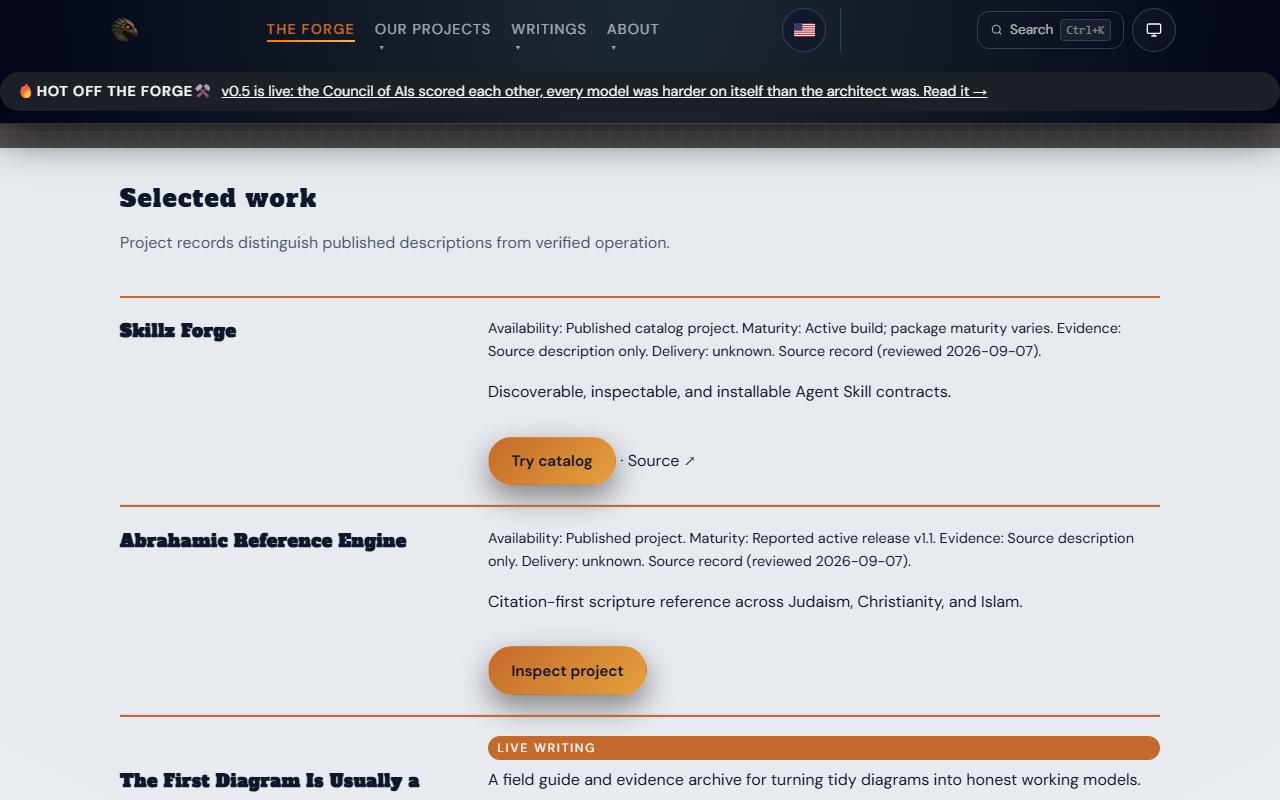
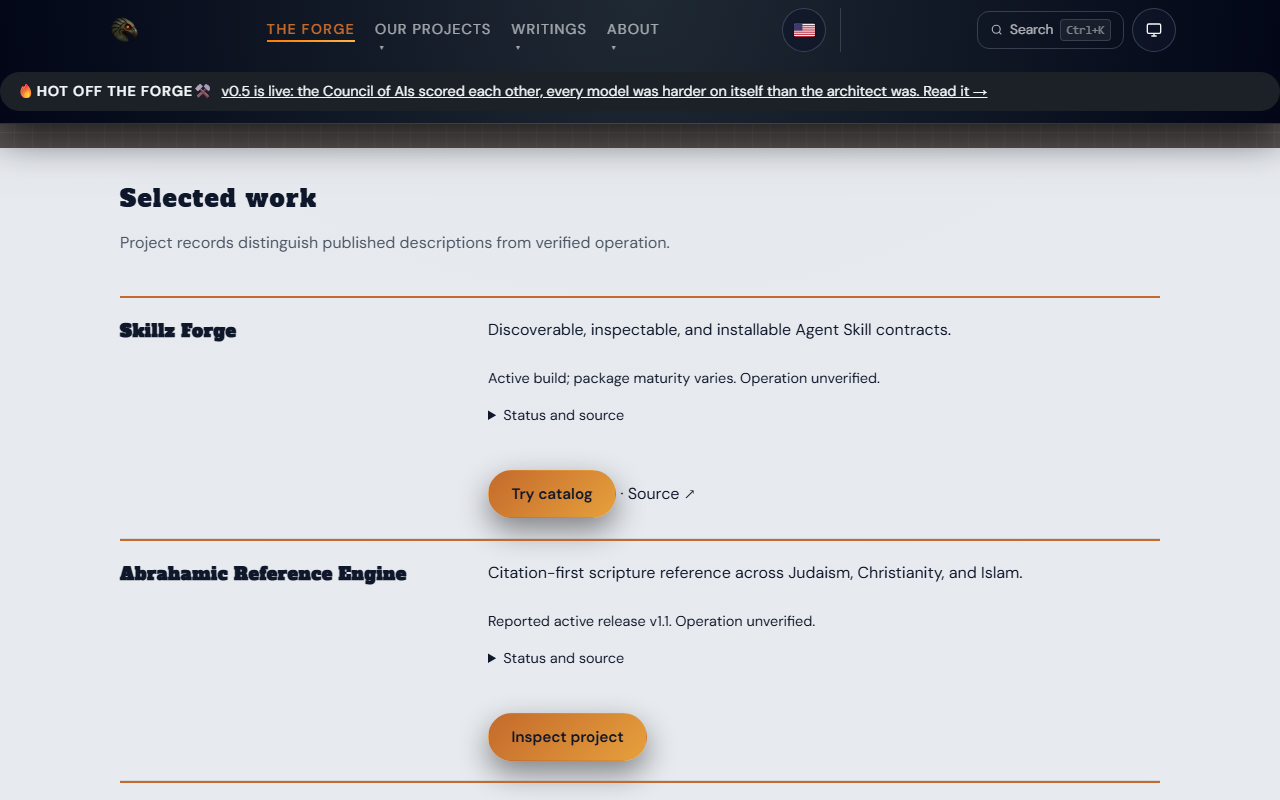
docs(a14): simplify visible status with shared disclosures

Changed region(s): [[0.375, 0.4062, 0.9062, 1.0], [0.0938, 0.6562, 0.3438, 0.75], [0.0938, 0.9688, 0.3438, 1.0]]

diff --git a/scripts/build-phone-proposals.py b/scripts/build-phone-proposals.py
@@ -13,7 +13,7 @@ from bs4 import BeautifulSoup
 
 ROOT = Path(__file__).resolve().parents[1]
 OUT = ROOT / ".local/a14"
-A11 = '9bfe170badf3133fab8119643aafeb1f04d2d0c9'
+A11 = '73019eadafe25e1d763e6ef6dd223a5b67942202'
 ROUTES = ("index.html", "projects/index.html", "projects/skillz/index.html", "contact/index.html")
 CONTACT = '''<h3>What are you trying to untangle?</h3>
 <p>A few details can help start the conversation. Share whatever is useful:</p>
@@ -38,6 +38,12 @@ CSS = """
 .proposal .project-card h3 {font-size:1.2rem;}
 .proposal .project-card {border-top:2px solid var(--okh-orange);}
 .proposal [data-project-status] {font-size:.9rem;line-height:1.6;}
+.proposal-status {margin:.6rem 0 1rem;}
+.proposal-status-brief {font-size:.9rem;line-height:1.5;margin:0;}
+.proposal-status details {margin:.25rem 0 0;}
+.proposal-status summary {display:list-item;cursor:pointer;min-height:44px;padding:.65rem 0;font-size:.9rem;}
+.proposal-status summary:focus-visible {outline:2px solid currentColor;outline-offset:3px;}
+.proposal-a .proposal-status {grid-column:2;}
 .proposal .project-card .btn-primary {white-space:normal;max-width:100%;}
 .proposal-a .grid-3:has(>.project-card) {grid-template-columns:1fr;gap:0;}
 .proposal-a .project-card {border-radius:0;border-left:0;border-right:0;padding:1.2rem 0;background:transparent;box-shadow:none;}
@@ -75,11 +81,21 @@ def homepage(text, variant):
     return text.replace(main, compact + selected + rest + context, 1)
 
 
+def present_status(soup, records):
+    """Style A11's optional disclosure without rewriting its text or structure."""
+    by_id = {record['id']: record for record in records}
+    for wrapper in soup.select('[data-project-status-disclosure]'):
+        record = by_id[wrapper['data-project-status-disclosure']]
+        wrapper['class'] = ['proposal-status']
+        wrapper.select_one('[data-project-status-brief]')['class'] = ['proposal-status-brief']
+        wrapper.summary['aria-label'] = 'Status and source for ' + record['title']
+
+
 def build():
     OUT.mkdir(parents=True, exist_ok=True)
     # Read the verified contract into this checkout's ignored preview area only.
     contract_root = OUT / 'contract-source'
-    archive = subprocess.check_output(['git', 'archive', A11, 'site-src', 'scripts/project-status.py'], cwd=ROOT)
+    archive = subprocess.check_output(['git', 'archive', A11, 'site-src', 'scripts/project-status.py', 'tests/test-project-status-disclosure.py'], cwd=ROOT)
     with tarfile.open(fileobj=io.BytesIO(archive)) as bundle:
         for member in bundle.getmembers():
             if member.isdir():
@@ -93,7 +109,7 @@ def build():
     contract = importlib.util.module_from_spec(spec)
     spec.loader.exec_module(contract)
     records = contract.load_registry(contract_root)
-    (OUT / 'contract-summaries.json').write_text(json.dumps({r['id']: {'text': contract.summary(r), 'url': r['evidence']['url']} for r in records}, indent=2), encoding='utf-8')
+    (OUT / 'contract-summaries.json').write_text(json.dumps({r['id']: {'text': contract.summary(r), 'url': r['evidence']['url'], 'brief': contract.visitor_summary(r)} for r in records}, indent=2), encoding='utf-8')
     (OUT / 'proposal.css').write_text(CSS, encoding='utf-8')
     source_hashes = {}
     for variant in ('a', 'b'):
@@ -103,7 +119,7 @@ def build():
             text = raw.decode('utf-8')
             source_path = contract_root / 'site-src/pages' / route.replace('.html', '.main.html')
             main = source_path.read_text(encoding='utf-8')
-            main = contract.render(main, '/' + route.removesuffix('index.html'), records)
+            main = contract.render(main, '/' + route.removesuffix('index.html'), records, disclosure=True)
             text = re.sub(r'(<main\b[^>]*>).*?(</main>)', lambda m: m[1] + main + m[2], text, count=1, flags=re.S)
             if route == 'index.html':
                 text = homepage(text, variant)
@@ -130,6 +146,7 @@ def build():
                                       'Read essay' if href.startswith('/writings/') else
                                       'Discuss access' if href.startswith('mailto:') else
                                       'Browse resources' if href == '/prompt-forge/' else 'Visit site')
+            present_status(soup, records)
             text = str(soup)
             text = re.sub(r'<body([^>]*)>', rf'<body\1 data-proposal="{variant}">', text, count=1)
             # Existing brand scope is unchanged; proposal styling is scoped via main.

diff --git a/assets/docs/a14-phone-proposals-2026-09-07.md b/assets/docs/a14-phone-proposals-2026-09-07.md
@@ -4,16 +4,36 @@ Status: RENDERED PROPOSALS READY FOR OWNER REVIEW. X04/X08 remain open until
 selection and implementation acceptance. Neither direction is approved for
 production. This revision supersedes the preliminary layout checkpoint.
 
+Architect refinement: concise visitor status with expandable provenance. This
+updates both existing alternatives; it neither chooses A/B nor issues another
+selection prompt. A11 reviewed the proposal-only contract in the task handoff.
+
 Baseline: `98922aebf71d90b2b18ecc34c8b00a041fff51c7`. A01/A02 are committed
 in this baseline. The old audit description of uncommitted work is historical.
 
-Verified A11 source contract: `9bfe170badf3133fab8119643aafeb1f04d2d0c9`,
+Verified A11 source contract: `73019eadafe25e1d763e6ef6dd223a5b67942202`,
+the optional disclosure followup to `9bfe170badf3133fab8119643aafeb1f04d2d0c9`,
 including its A06 source corrections. The builder reads that exact commit's
 source fragments, registry and renderer into its own ignored preview directory.
 It validates the 18-record registry and renders canonical summaries without
-copying handwritten facts. Every summary retains source description scope,
-review date, immutable evidence link and `Delivery: unknown`. One primary
+copying handwritten facts. It calls `render(..., disclosure=True)` and uses
+`visitor_summary(record)` for verification. A14 adds only scoped classes and a
+project-specific accessible summary name; it maintains no parallel wording
+function. Every full summary retains source description scope,
+review date, immutable evidence link and `Delivery: unknown` inside native
+`details`, opened with "Status and source". One primary
 action per project card is styled separately from supporting source links.
+
+The visible line preserves `record.maturity` verbatim and adds "Operation
+unverified" for software or "Delivery unverified" for other records. Unknown
+shelf entries also retain the external-link or access-inquiry context. The
+workbench retains its dated readiness and exact benchmark/RAG evidence summary
+outside the disclosure because that limitation is material; the shared helper
+does not add a redundant generic delivery phrase to that record. No independent
+status table, shortened prototype qualification or stronger delivery claim was
+introduced. On cards, the visitor description precedes the concise status.
+The canonical node, source URL and review date are unchanged, available without
+JavaScript, and excluded from the primary-action styling.
 
 ## Two directions
 
@@ -52,6 +72,7 @@ work has a separate scrolled capture. Chromium 151.0.7922.34, reduced motion,
 | --- | --- | --- | --- | --- |
 | Homepage | [View](../audit/screenshots/a14-phone-proposals/a-home-390.png) | [View](../audit/screenshots/a14-phone-proposals/a-home-1280.png) | [View](../audit/screenshots/a14-phone-proposals/b-home-390.png) | [View](../audit/screenshots/a14-phone-proposals/b-home-1280.png) |
 | Selected work | [View](../audit/screenshots/a14-phone-proposals/a-selected-390.png) | [View](../audit/screenshots/a14-phone-proposals/a-selected-1280.png) | [View](../audit/screenshots/a14-phone-proposals/b-selected-390.png) | [View](../audit/screenshots/a14-phone-proposals/b-selected-1280.png) |
+| Expanded source | [View](../audit/screenshots/a14-phone-proposals/a-status-open-390.png) | Phone detail | [View](../audit/screenshots/a14-phone-proposals/b-status-open-390.png) | Phone detail |
 | Project shelf | [View](../audit/screenshots/a14-phone-proposals/a-projects-390.png) | [View](../audit/screenshots/a14-phone-proposals/a-projects-1280.png) | [View](../audit/screenshots/a14-phone-proposals/b-projects-390.png) | [View](../audit/screenshots/a14-phone-proposals/b-projects-1280.png) |
 | Skillz detail | [View](../audit/screenshots/a14-phone-proposals/a-projects-skillz-390.png) | [View](../audit/screenshots/a14-phone-proposals/a-projects-skillz-1280.png) | [View](../audit/screenshots/a14-phone-proposals/b-projects-skillz-390.png) | [View](../audit/screenshots/a14-phone-proposals/b-projects-skillz-1280.png) |
 | Contact | [View](../audit/screenshots/a14-phone-proposals/a-contact-390.png) | [View](../audit/screenshots/a14-phone-proposals/a-contact-1280.png) | [View](../audit/screenshots/a14-phone-proposals/b-contact-390.png) | [View](../audit/screenshots/a14-phone-proposals/b-contact-1280.png) |
@@ -97,6 +118,16 @@ supports earlier access, not a claim about conversions or task success.
   action on every project card. An initial test expected 15 shelf records;
   that incorrect test assumption was corrected to derive the count from the
   registry, which declares 14. No product change was made to satisfy that count.
+- PASS: each concise status is visible with its disclosure closed; keyboard
+  Enter opens and closes every disclosure in the standard matrix, exposing the
+  canonical text and leaving focus on its summary. No primary action is inside
+  a disclosure. Supplemental checks also open/close the first disclosure on
+  applicable pages with JavaScript disabled. These are scoped control checks,
+  not a full keyboard journey or assistive-technology acceptance session.
+- PASS: the five focused tests shipped with A11's pinned disclosure contract,
+  executed in the ignored contract snapshot. They cover exact canonical content,
+  visible material limits, record-driven wording, opt-in/idempotent rendering,
+  and visitor description/action placement. Production default stays unchanged.
 - PASS: eight additional phone samples with dark mode and JavaScript enabled,
   plus eight with JavaScript disabled and a requested dark system preference;
   no overflow or hidden reveal content. Disabled-script samples retain the
@@ -146,6 +177,10 @@ preview tree for each run and does not delete prior trees or alter other servers
 1. A11 status/action dependency is now satisfied for these proposals. Its source
    contract is not external functional proof; delivery remains unknown. The
    selected writing card is editorial content, not a software registry record.
+   A11's current production browser fixture expects the full canonical block
+   visible. Any eventual disclosure adoption must coordinate that fixture change
+   with A11, asserting visible concise limits plus keyboard-accessible full
+   evidence. A14 does not waive that production assertion or modify its fixture.
 2. A21 must refresh the chosen proposal against its combined source and shell
    metadata before implementation. Preserve A16's future picture/source
    optimization when updating the pinned source; A14 does not add that asset.

diff --git a/assets/docs/a14-owner-choice-2026-09-07.md b/assets/docs/a14-owner-choice-2026-09-07.md
@@ -6,6 +6,12 @@ A11's source-described project maturity and explicit unknown delivery, with one
 primary action per project card. A12 Featured wording and A15 optional Contact
 prompts are included.
 
+The architect's refinement is applied to both alternatives: visitor descriptions
+come first, followed by a concise maturity/uncertainty line. "Status and source"
+opens the full dated registry record. Prototype and uncertain-operation limits
+remain visible; provenance has not been deleted or rewritten. This is a
+refinement of the existing pending comparison, not a new selection request.
+
 **Recommendation: A, compact project rows.** Its lower card height makes it
 easier to scan the evidence on a phone. B retains more visual separation and
 places featured writing ahead of the longer orientation section. This is a
@@ -22,13 +28,14 @@ design recommendation, not measured visitor preference.
 | Desktop project shelf | [Screenshot](../audit/screenshots/a14-phone-proposals/a-projects-1280.png) | [Screenshot](../audit/screenshots/a14-phone-proposals/b-projects-1280.png) |
 | Phone Skillz detail | [Screenshot](../audit/screenshots/a14-phone-proposals/a-projects-skillz-390.png) | [Screenshot](../audit/screenshots/a14-phone-proposals/b-projects-skillz-390.png) |
 | Phone Contact | [Screenshot](../audit/screenshots/a14-phone-proposals/a-contact-390.png) | [Screenshot](../audit/screenshots/a14-phone-proposals/b-contact-390.png) |
+| Expanded source disclosure | [Screenshot](../audit/screenshots/a14-phone-proposals/a-status-open-390.png) | [Screenshot](../audit/screenshots/a14-phone-proposals/b-status-open-390.png) |
 
 At 390px, both restore a 16px heading gutter, place practical links at y585 to
 y681, and bring selected work from baseline y2332 to y1026. Forty-three scoped
 browser samples passed. These measurements include the visible proposal notice;
 they are not conversion or human task-success evidence.
 
-**Decision requested:** choose A, choose B, or specify a concrete revision.
+**Existing decision remains pending:** A, B, or an owner-directed revision.
 Selection authorizes preparation of that direction, not a claim that full
 accessibility, human task acceptance or production release checks are complete.
 A21 retains integration and release ownership.
